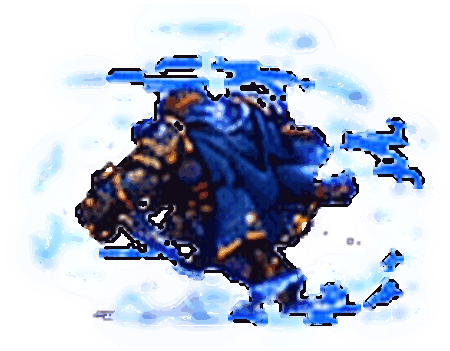
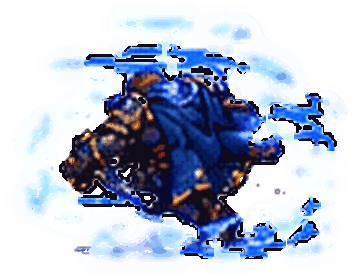
v80: Guerreiro menor ao rolar/desviar/tomar dano
Claude-Session: https://claude.ai/code/session_01YFC38PcyDKAfPNhJ7r1cKG

diff --git a/sw.js b/sw.js
@@ -1,4 +1,4 @@
-const CACHE='bd1-rpg-v79';
+const CACHE='bd1-rpg-v80';
 const ASSETS=['./','./index.html','./game.html','./lobby.js','./menu_meta.js','./menu_assassin.png','./menu_mage.png','./menu_knight.png','./menu_tank.png','./menu_elem.png','./icon_tipo_sword.png','./lobby.css','./select_plate.webp','./char_mage.webp','./char_knight.webp','./char_tank.webp','./char_assassin.webp','./panel_mage.webp','./panel_knight.webp','./panel_tank.webp','./panel_assassin.webp','./style.css','./app.js','./anim.js','./mage.js','./cleric.js','./tank.js','./knight.js','./fxsoft.js','./knight/K1_1.png','./knight/K1_10.png','./knight/K1_11.png','./knight/K1_13.png','./knight/K1_14.png','./knight/K1_15.png','./knight/K1_19.png','./knight/K1_2.png','./knight/K1_20.png','./knight/K1_21.png','./knight/K1_22.png','./knight/K1_23.png','./knight/K1_24.png','./knight/K1_25.png','./knight/K1_26.png','./knight/K1_27.png','./knight/K1_28.png','./knight/K1_29.png','./knight/K1_30.png','./knight/K1_31.png','./knight/K1_32.png','./knight/K1_35.png','./knight/K1_37.png','./knight/K1_4.png','./knight/K1_41.png','./knight/K1_42.png','./knight/K1_44.png','./knight/K1_45.png','./knight/K1_46.png','./knight/K1_49.png','./knight/K1_5.png','./knight/K1_6.png','./knight/K1_7.png','./knight/K1_8.png','./knight/K1_9.png','./knight/K2_10.png','./knight/K2_11.png','./knight/K2_13.png','./knight/K2_14.png','./knight/K2_15.png','./knight/K2_16.png','./knight/K2_17.png','./knight/K2_18.png','./knight/K2_19.png','./knight/K2_2.png','./knight/K2_20.png','./knight/K2_21.png','./knight/K2_22.png','./knight/K2_23.png','./knight/K2_24.png','./knight/K2_25.png','./knight/K2_26.png','./knight/K2_28.png','./knight/K2_29.png','./knight/K2_3.png','./knight/K2_30.png','./knight/K2_32.png','./knight/K2_33.png','./knight/K2_34.png','./knight/K2_35.png','./knight/K2_37.png','./knight/K2_38.png','./knight/K2_39.png','./knight/K2_4.png','./knight/K2_41.png','./knight/K2_42.png','./knight/K2_43.png','./knight/K2_44.png','./knight/K2_45.png','./knight/K2_46.png','./knight/K2_5.png','./knight/K2_6.png','./knight/K2_7.png','./knight/K2_8.png','./knight/K2_9.png','./knight/K3_1.png','./knight/K3_10.png','./knight/K3_11.png','./knight/K3_12.png','./knight/K3_13.png','./knight/K3_14.png','./knight/K3_15.png','./knight/K3_16.png','./knight/K3_17.png','./knight/K3_18.png','./knight/K3_2.png','./knight/K3_20.png','./knight/K3_21.png','./knight/K3_22.png','./knight/K3_23.png','./knight/K3_24.png','./knight/K3_25.png','./knight/K3_26.png','./knight/K3_27.png','./knight/K3_28.png','./knight/K3_29.png','./knight/K3_3.png','./knight/K3_30.png','./knight/K3_31.png','./knight/K3_32.png','./knight/K3_33.png','./knight/K3_34.png','./knight/K3_35.png','./knight/K3_36.png','./knight/K3_37.png','./knight/K3_38.png','./knight/K3_39.png','./knight/K3_4.png','./knight/K3_40.png','./knight/K3_41.png','./knight/K3_42.png','./knight/K3_43.png','./knight/K3_44.png','./knight/K3_45.png','./knight/K3_46.png','./knight/K3_47.png','./knight/K3_48.png','./knight/K3_5.png','./knight/K3_6.png','./knight/K3_7.png','./knight/K3_8.png','./knight/K3_9.png','./knight/fx_ice.png','./knight/fx_rocksA.png','./knight/fx_rock1.png','./knight/fx_rock2.png','./knight/fx_rock3.png','./knight/fx_rock4.png','./knight/fx_slash.png','./knight/meta.json','./clr/at1.png','./clr/at2.png','./clr/at3.png','./clr/bg1.png','./clr/bg2.png','./clr/bg3.png','./clr/bg4.png','./clr/bp1.png','./clr/bp2.png','./clr/bp3.png','./clr/br1.png','./clr/br2.png','./clr/br3.png','./clr/br4.png','./clr/br5.png','./clr/br6.png','./clr/bt1.png','./clr/bt2.png','./clr/bt3.png','./clr/bt4.png','./clr/d1.png','./clr/d2.png','./clr/d3.png','./clr/d4.png','./clr/dg1.png','./clr/dg2.png','./clr/dg3.png','./clr/dn1.png','./clr/dn2.png','./clr/dn3.png','./clr/ds1.png','./clr/ex1.png','./clr/fx_aura.png','./clr/fx_burst.png','./clr/fx_cross1.png','./clr/fx_lotus.png','./clr/fx_pillar.png','./clr/fx_pillar2.png','./clr/fx_ring1.png','./clr/fx_ring2.png','./clr/fx_ring3.png','./clr/fx_star1.png','./clr/fx_star2.png','./clr/fx_star3.png','./clr/fx_star4.png','./clr/fx_streak1.png','./clr/fx_streak2.png','./clr/fx_streak3.png','./clr/fx_sunstar.png','./clr/hat1.png','./clr/hat2.png','./clr/idle1.png','./clr/meta.json','./clr/pr1.png','./clr/pr2.png','./clr/stf.png','./clr/ult1.png','./clr/ult2.png','./clr/v1.png','./clr/v2.png','./mage3/air.png','./mage3/atk1.png','./mage3/atk2.png','./mage3/atk3.png','./mage3/bh1.png','./mage3/bh2.png','./mage3/castdef.png','./mage3/defair.png','./mage3/defearth.png','./mage3/deffire.png','./mage3/defmana.png','./mage3/defwater.png','./mage3/dodge1.png','./mage3/dodge2.png','./mage3/dodge3.png','./mage3/dodge4.png','./mage3/earth.png','./mage3/fire.png','./mage3/fx_air_swirl.png','./mage3/fx_bh_big.png','./mage3/fx_bh_big2.png','./mage3/fx_bh_small.png','./mage3/fx_bh_spikes.png','./mage3/fx_bolt.png','./mage3/fx_comet.png','./mage3/fx_cross.png','./mage3/fx_crystal.png','./mage3/fx_earth_spikes.png','./mage3/fx_fire_fall.png','./mage3/fx_mana_aura.png','./mage3/fx_orb_blue.png','./mage3/fx_orb_orange.png','./mage3/fx_orb_red.png','./mage3/fx_orbb.png','./mage3/fx_ring_floor.png','./mage3/fx_rock.png','./mage3/fx_rocks.png','./mage3/fx_star_big.png','./mage3/fx_star_small.png','./mage3/fx_water_pillar.png','./mage3/fx_whirl.png','./mage3/idle1.png','./mage3/idle2.png','./mage3/idle3.png','./mage3/idle4.png','./mage3/meta.json','./mage3/spin1.png','./mage3/spinwide.png','./mage3/stars.png','./mage3/swingf.png','./mage3/swingl.png','./mage3/swingr.png','./mage3/water.png','./anim/manifest.json','./spr_mage.webp','./spr_knight.webp','./spr_tank.webp','./spr_assassin.webp','./spr_boss.webp','./game_clean.png','./game_nohud.png','./hud_mage.png','./hud_knight.png','./hud_tank.png','./hud_assassin.png','./question_panel.png','./icon_attack.png','./icon_coin.png','./manifest.webmanifest','./potion_hp.png','./potion_mana.png','./tank/a_bub.png','./tank/a_cr.png','./tank/a_dust.png','./tank/a_hh.png','./tank/a_i1.png','./tank/a_i2.png','./tank/a_lo.png','./tank/a_rd.png','./tank/a_rl1.png','./tank/a_rl2.png','./tank/a_s1.png','./tank/a_s2.png','./tank/a_sw.png','./tank/a_swl.png','./tank/d_a1.png','./tank/d_a2.png','./tank/d_a3.png','./tank/d_a4.png','./tank/d_e1.png','./tank/d_e2.png','./tank/d_e3.png','./tank/d_e4.png','./tank/d_f1.png','./tank/d_f2.png','./tank/d_f3.png','./tank/d_h1.png','./tank/d_h2.png','./tank/d_h3.png','./tank/d_h4.png','./tank/d_i1.png','./tank/d_i2.png','./tank/d_i3.png','./tank/d_m1.png','./tank/d_m2.png','./tank/d_m3.png','./tank/d_m4.png','./tank/d_p1.png','./tank/d_p3.png','./tank/d_u1.png','./tank/d_u2.png','./tank/fx_bring.png','./tank/fx_bspike.png','./tank/fx_earth.png','./tank/fx_rockburst.png','./tank/meta.json','./tank/n1.png','./tank/n2.png','./tank/n3.png','./tank/p1.png','./tank/tA.png','./tank/tB.png','./tank/tC.png','./tank/v1.png','./tank/v2.png','./tank/v3.png','./tank/v4.png'];
 // Tudo em cache (abre instantâneo, até offline). Em segundo plano o SW confere a rede (requisição condicional, barata);
 // se algum arquivo mudou, atualiza o cache e avisa a página, que recarrega sozinha (menu) ou mostra o aviso (jogo).

diff --git a/tools/cut_knight.py b/tools/cut_knight.py
@@ -83,7 +83,7 @@ def mult(name, core, REFS):
     return _mult(name, core, REFS) * POSEFIX.get(name, SHEETFIX[name.split('_')[0]]) * BFIX.get(name, 1.0)
 def _mult(name, core, REFS):
     sh = name.split('_')[0]; rh, ra = REFS[sh]; ys = np.where(core.any(1))[0]; h = ys.max() - ys.min() + 1
-    if name in ROLL: return float(np.clip(np.sqrt(1.25 * ra / max(core.sum(), 1)), 1.0, 2.3))
+    if name in ROLL: return float(np.clip(np.sqrt(0.78 * ra / max(core.sum(), 1)), 0.5, 2.3))
     if name in UPRIGHT: return rh / h
     return float(np.clip(np.sqrt(ra / max(core.sum(), 1)), 1.0, 1.3))
 def main(only=None):

diff --git a/README.md b/README.md
@@ -315,3 +315,5 @@ Guerreiro: âncora das poses trocada (centro do corpo azul + chão por percentil
 - TIPO sempre com a mesma espada (`icon_tipo_sword.png`). Título "VEZ DA MAGA / DO GUERREIRO / DO TANQUE / DA CLÉRIGA" desenhado por código.
 - Painel de pergunta novo (`question_panel.png`): TIPO, ATRIBUTO, enunciado, moedas, tempo e alternativas a) b) c) d) com votos.
 - MAGO → MAGA em todo o jogo. Ataque Super Pesado do Tanque custa 20 de mana (como no quadro). Escolha de alvo (Passar a Vez, Proteção, Luz Sagrada) segue no menu simples antigo.
+
+## v80 — Guerreiro: rolamento/esquiva/dano menores (escala da família ROLL ~0,8x em `tools/cut_knight.py`, ancoragem mantida).
